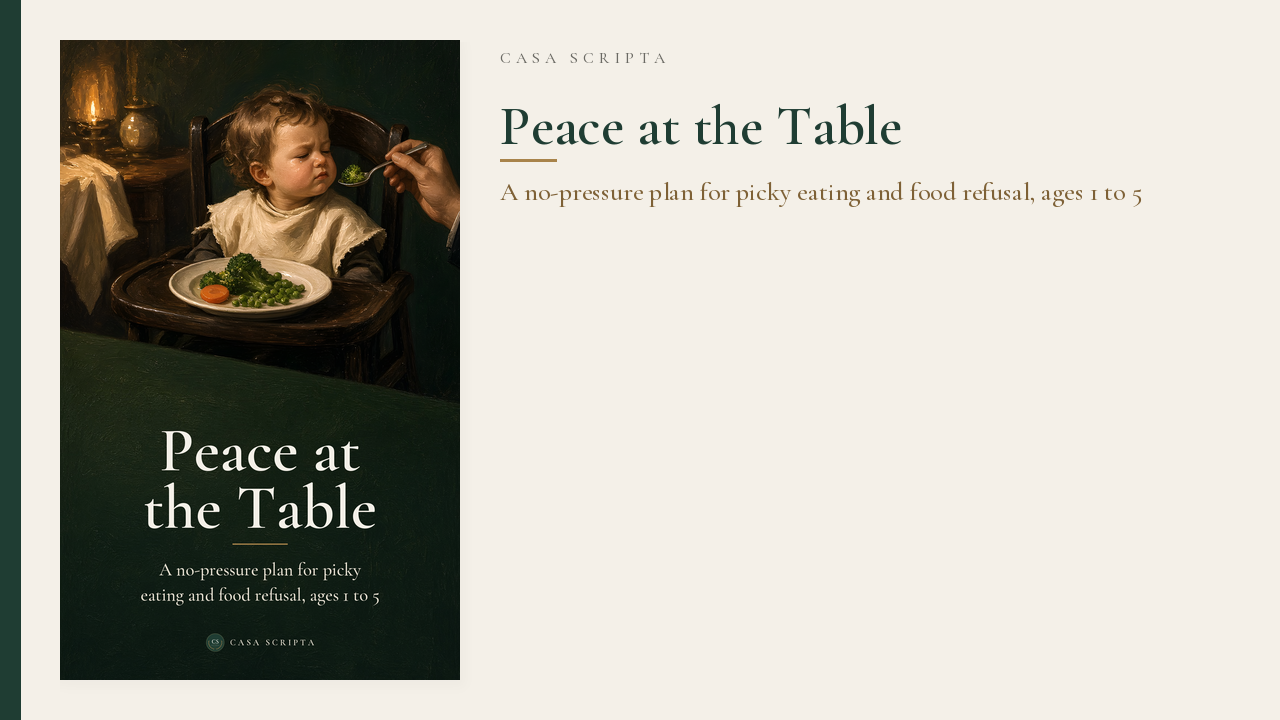
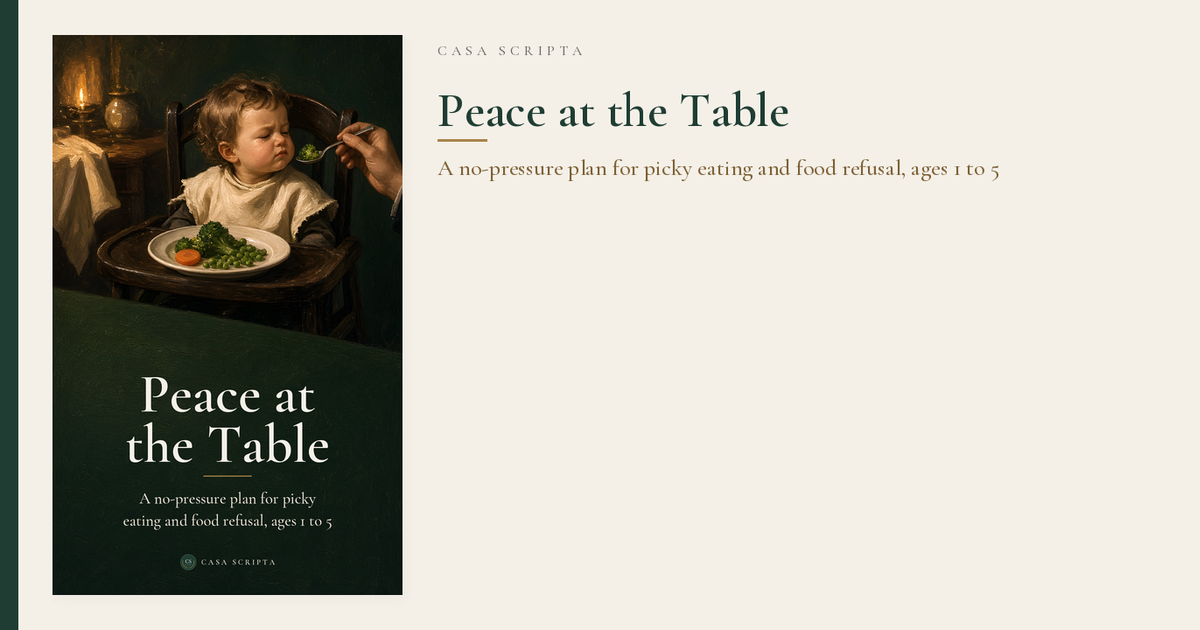
PREVIEW: /free/ Privacy link below the email box; 1200x630 share images for the 3 new books (Devid 7:48pm via Odin; not for push)

Changed region(s): [[0.0308, 0.0302, 0.8942, 0.9651], [0.1542, 0.8746, 0.2467, 0.9048]]

diff --git a/free/index.html b/free/index.html
@@ -75,8 +75,8 @@ footer a{color:var(--stone)}
 .gatebox{margin:48px auto 0;max-width:560px;text-align:center}
 .gatebox form{flex-direction:column;align-items:stretch;gap:0}
 .gatebox input{width:100%;min-width:0;flex:none}
-.gatebox .gpriv{align-self:flex-start;font-size:13px;color:var(--stone);text-decoration-color:var(--brass);text-underline-offset:3px;margin:8px 0 18px}
-.gatebox .gpriv:hover{color:var(--green)}
+.gatebox+.gpriv{display:table;font-size:13px;color:var(--stone);text-decoration-color:var(--brass);text-underline-offset:3px;margin:12px auto 0}
+.gatebox+.gpriv:hover{color:var(--green)}
 .gatebox button{font-size:18px;letter-spacing:.08em;padding:19px 22px;white-space:nowrap}
 .gatebox .gsmall{margin:12px 0 0;color:var(--stone);font-size:12.5px;line-height:1.6}
 .ckbox button:focus-visible,.dopt:focus-visible,.dclose:focus-visible,.gpriv:focus-visible{outline:2px solid var(--brass);outline-offset:3px}
@@ -148,11 +148,11 @@ dialog#pick::backdrop{background:rgba(26,28,27,.55)}
 <label class="cksr" for="ck-email-free">Email address</label>
 <input id="ck-email-free" type="email" name="email_address" required placeholder="Your email address" autocomplete="email">
 <input type="hidden" name="fields[checklist]" id="ck-checklist" value="">
-<a class="gpriv" href="/privacy/">Privacy</a>
 <button type="button" id="gate-btn">Get your free sample.</button>
 <p class="gsmall">Subscribe to our free newsletter.<br>Unsubscribe anytime.</p>
 </form>
 </div>
+<a class="gpriv" href="/privacy/">Privacy</a>
 </section>
 
 <dialog id="pick" aria-labelledby="pick-title">

diff --git a/books/home-with-a-puppy/index.html b/books/home-with-a-puppy/index.html
@@ -11,8 +11,8 @@
 <meta property="og:title" content="Home with a Puppy | Casa Scripta">
 <meta property="og:description" content="This book gives you a 3-day homecoming set-up and a 12-week plan. By the end, you'll have a daily routine that fits your home. You'll have clear steps for toilet trips, biting, the crate and time alone. And you'll have a record of the new things your puppy has met.">
 <meta property="og:image" content="https://casascripta.com/images/og/home-with-a-puppy-og.png">
-<meta property="og:image:width" content="1280">
-<meta property="og:image:height" content="720">
+<meta property="og:image:width" content="1200">
+<meta property="og:image:height" content="630">
 <meta property="og:type" content="website">
 <meta property="og:url" content="https://casascripta.com/books/home-with-a-puppy/">
 <link rel="icon" href="/favicon.svg" type="image/svg+xml">

diff --git a/books/peace-at-the-table/index.html b/books/peace-at-the-table/index.html
@@ -11,8 +11,8 @@
 <meta property="og:title" content="Peace at the Table | Casa Scripta">
 <meta property="og:description" content="This book gives you a 3-day set-up and a 6-week plan. By the end, you'll have calm, regular meals and snacks, a clear split of jobs between you and your child, and a simple way to offer new foods without a fight.">
 <meta property="og:image" content="https://casascripta.com/images/og/peace-at-the-table-og.png">
-<meta property="og:image:width" content="1280">
-<meta property="og:image:height" content="720">
+<meta property="og:image:width" content="1200">
+<meta property="og:image:height" content="630">
 <meta property="og:type" content="website">
 <meta property="og:url" content="https://casascripta.com/books/peace-at-the-table/">
 <link rel="icon" href="/favicon.svg" type="image/svg+xml">

diff --git a/books/tucked-in/index.html b/books/tucked-in/index.html
@@ -11,8 +11,8 @@
 <meta property="og:title" content="Tucked In | Casa Scripta">
 <meta property="og:description" content="This book gives you a 3-day set-up and a 14-night plan. By the end, you'll have one calm bedtime routine, one clear plan for your toddler's main sleep problem, and a simple way to see if it's working.">
 <meta property="og:image" content="https://casascripta.com/images/og/tucked-in-og.png">
-<meta property="og:image:width" content="1280">
-<meta property="og:image:height" content="720">
+<meta property="og:image:width" content="1200">
+<meta property="og:image:height" content="630">
 <meta property="og:type" content="website">
 <meta property="og:url" content="https://casascripta.com/books/tucked-in/">
 <link rel="icon" href="/favicon.svg" type="image/svg+xml">
